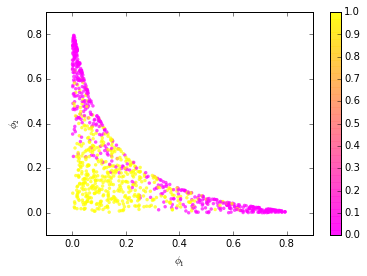
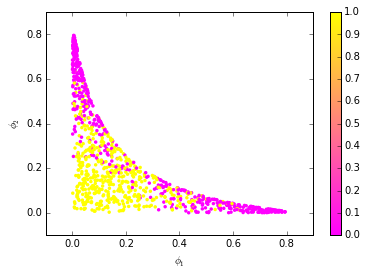
Non-alpha curvy plot

Changed region(s): [[0.1798, 0.1159, 0.7793, 0.7826]]

diff --git a/assignment-3/exercise2part2.py b/assignment-3/exercise2part2.py
@@ -19,7 +19,7 @@ def H(phi, y):
 def scatter_plotta(x,y,colors,xlabel='$X[:,0]$',ylabel='$X[:,1]$'):
     cmap = plt.cm.get_cmap('spring')    
     
-    z = plt.scatter(x,y, c=colors, cmap=cmap, alpha=0.7, s=12, edgecolors='none')
+    z = plt.scatter(x,y, c=colors, cmap=cmap, alpha=1, s=12, edgecolors='none')
     plt.xlabel(xlabel)
     plt.ylabel(ylabel)
     plt.colorbar(z)
